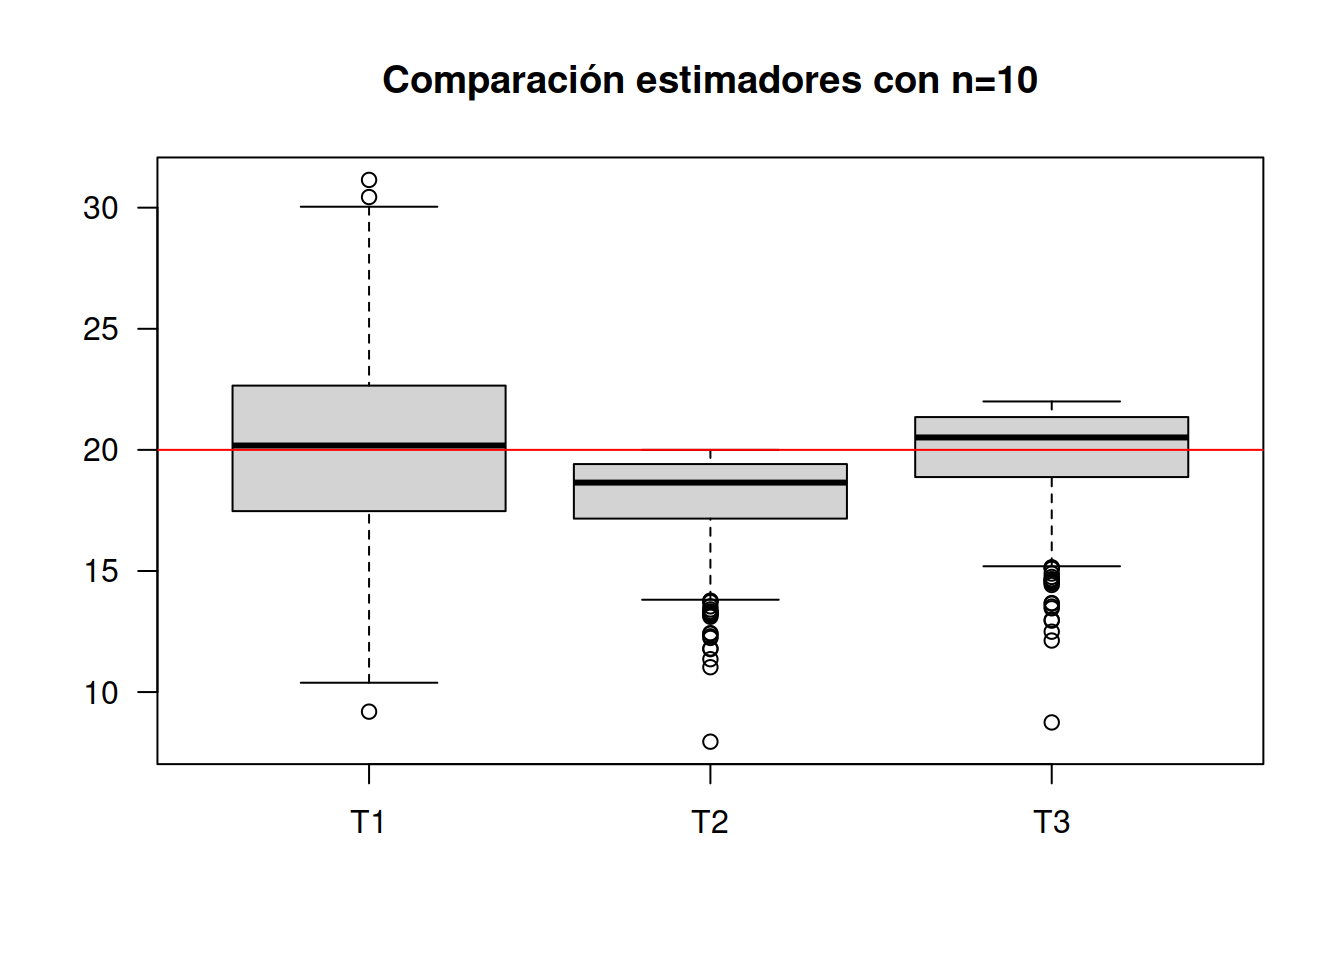
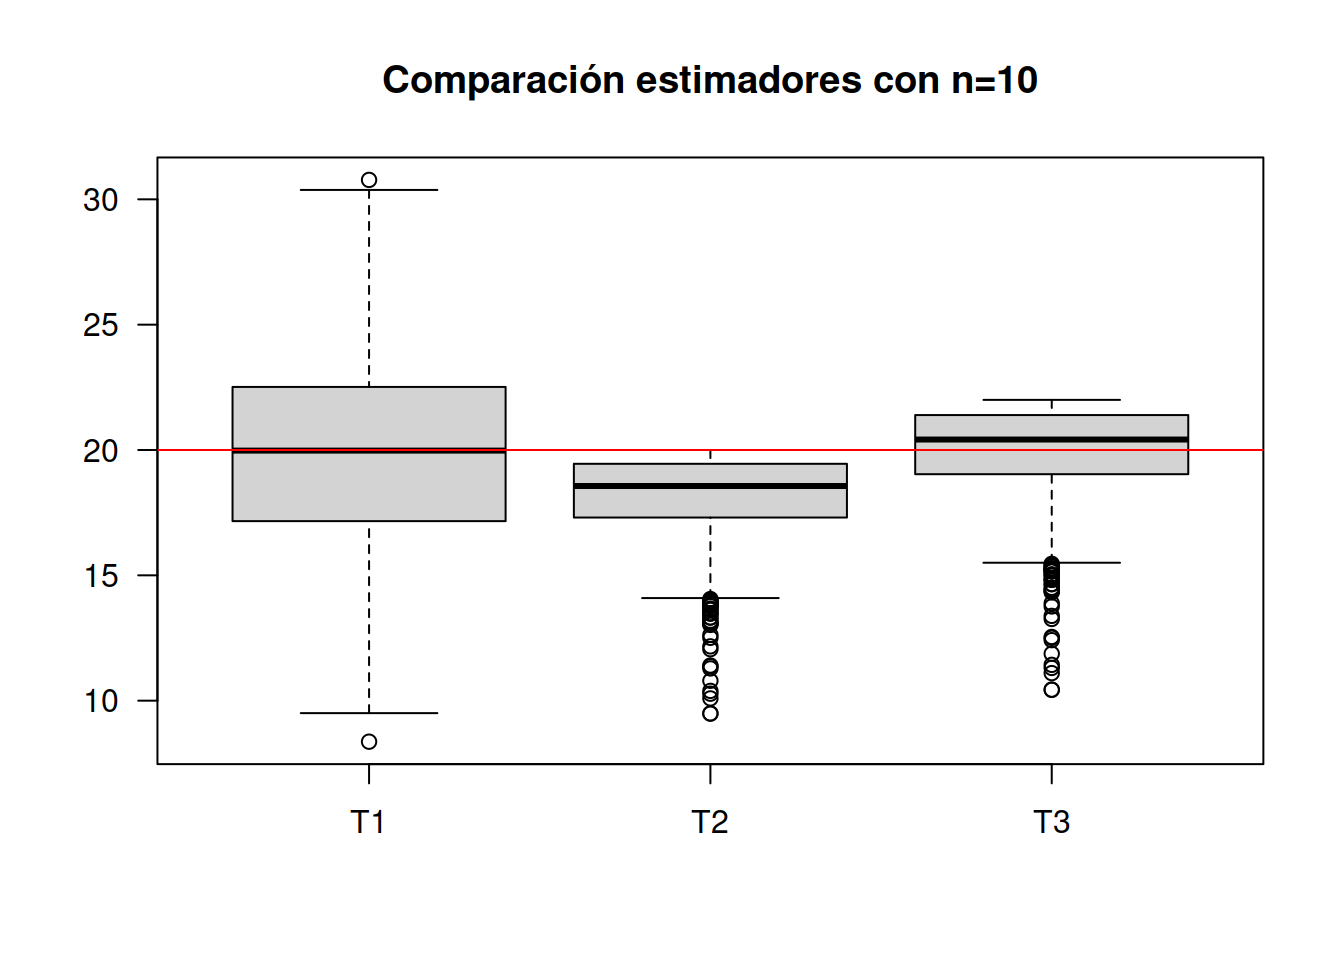
detecta

diff --git a/docs/recurso331.html b/docs/recurso331.html
@@ -688,7 +688,7 @@ abline(h=20,  col=&quot;red&quot;)</code></pre>
 <p><img src="recurso331_files/figure-html/unnamed-chunk-4-1.png" width="672" /></p>
 <pre class="r"><code>apply(T123,2,mean)</code></pre>
 <pre><code>      T1       T2       T3 
-20.06510 18.11332 19.92465 </code></pre>
+19.92623 18.08796 19.89675 </code></pre>
 <p><br/><br/></p>
 <p>Para un tamaño de muestra <span class="math inline">\(n=10\)</span>
 se observa que los mejores resultados se obtienen con <span
@@ -710,7 +710,7 @@ abline(h=20,  col=&quot;red&quot;)</code></pre>
 <p><img src="recurso331_files/figure-html/unnamed-chunk-5-1.png" width="672" /></p>
 <pre class="r"><code>apply(T123,2,mean)</code></pre>
 <pre><code>      T1       T2       T3 
-19.99680 19.79768 19.99566 </code></pre>
+19.99876 19.79926 19.99725 </code></pre>
 <p>Los resutados indican que el mejor estimador de <span
 class="math inline">\(b\)</span> corresponde a <span
 class="math inline">\(T3\)</span>. Sin embargo el estimador <span

diff --git a/docs/index.html b/docs/index.html
@@ -357,6 +357,8 @@ $(document).ready(function () {
 
 
 <p><br/><br/></p>
+<div id="es-este" class="section level1">
+<h1>es este</h1>
 <div
 id="análisis-de-tendencias-para-métodos-cuantitativos-y-cualitativos"
 class="section level3">
@@ -419,6 +421,7 @@ muestral.</li>
 <li>Aplicación de los Conceptos a Casos prácticos</li>
 </ul>
 <p><br/><br/></p>
+</div>
 </div>
 </div>
 
